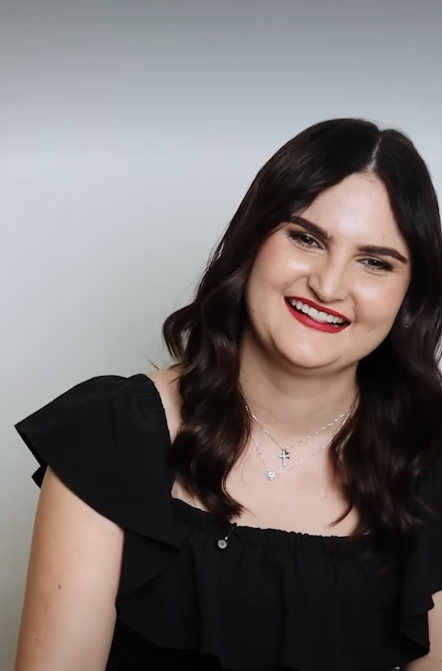
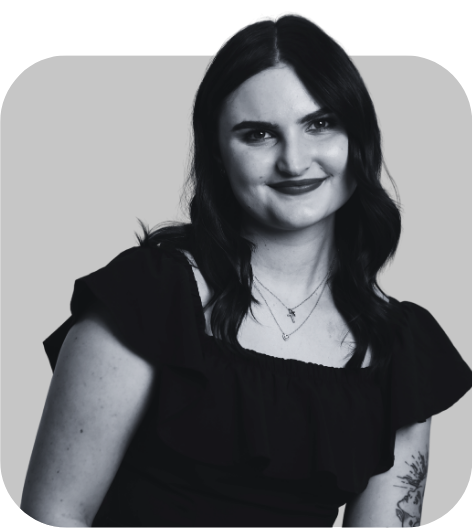
Kate, 19 Sep 2026: replaced the plain colour crops on the five existing Former Team cards (Samantha, Sophie, Toni, Zandri, Danika) with the uniform black-and-white headshots from the new "RESIGNED" board in the FINAL STYLIST CARD Canva file (pages 40-41), cropped one-per-file from that board's expor

diff --git a/staff-profiles.js b/staff-profiles.js
@@ -162,20 +162,28 @@ const STAFF_PROFILES = {
 
   // -- Former team, kept for the record (Kate, 17 Sep 2026) --
   // `resigned: true` renders the card in black-and-white/faded (dashboard.js
-  // renderStylistCards()) instead of leaving them off the grid entirely. None of
-  // them has a cutout in assets/staff/, so `photoFull` points straight at the plain
-  // photo already sitting in stylist/photos/ for the standalone Stylist page — a
-  // flat crop, not the accent-block cutout style the current cards use, but B&W
-  // narrows that gap. Stuart and Goncalo have no photo anywhere, so they render on
-  // name alone, same as anyone else in this file without a `photo`. `role` is a
+  // renderStylistCards()) instead of leaving them off the grid entirely. Photos
+  // below were the plain colour crops from the standalone Stylist page until 19
+  // Sep 2026, when Kate built a proper "RESIGNED" board in the FINAL STYLIST CARD
+  // Canva file (pages 40-41) with a uniform black-and-white headshot per person —
+  // these paths are that board's exports, cropped one-per-file. `role` is a
   // neutral placeholder, not their real title — Kate to correct if it matters.
   'SAMANTHA': { photoFull: 'stylist/photos/KCA/samantha amad.png', role: 'Former Team Member', branch: 'KCA', ig: 'samanthaahmadhair', resigned: true },
-  'SOPHIE':   { photoFull: 'stylist/photos/KCA/sophie harrison.jpg', role: 'Former Team Member', branch: 'KCA', ig: 'sophiepatriciahair', resigned: true },
+  'SOPHIE':   { photoFull: 'stylist/photos/KCA/sophie harrison.png', role: 'Former Team Member', branch: 'KCA', ig: 'sophiepatriciahair', resigned: true },
   'TONI':     { photoFull: 'stylist/photos/KCA/toni brits.png', role: 'Former Team Member', branch: 'KCA', resigned: true },
-  'ZANDRI':   { photoFull: 'stylist/photos/MC/zandri wilson.jpg', role: 'Former Team Member', branch: 'MC', ig: 'hairby.zandri', resigned: true },
-  'DANIKA':   { photoFull: 'stylist/photos/SAA/danika ogrady.jfif', role: 'Former Team Member', branch: 'SAA', ig: 'hairby_danika', resigned: true },
-  'STUART':   { role: 'Former Team Member', branch: 'other', resigned: true },
-  'GONCALO':  { role: 'Former Team Member', branch: 'other', resigned: true },
+  'ZANDRI':   { photoFull: 'stylist/photos/MC/zandri wilson.png', role: 'Former Team Member', branch: 'MC', ig: 'hairby.zandri', resigned: true },
+  'DANIKA':   { photoFull: 'stylist/photos/SAA/danika ogrady.png', role: 'Former Team Member', branch: 'SAA', ig: 'hairby_danika', resigned: true },
+  // Added 19 Sep 2026 from the same RESIGNED board, branch read off their ledger
+  // history (staff_utilisation/branch_staff_daily volume) since none of the four
+  // had a card before now: Zandra almost entirely at KCA, Beatriz/Zara/Blossom
+  // almost entirely at SAA (each also has a single-digit-row cover shift at
+  // another branch, which is not their branch).
+  'ZANDRA':   { photoFull: 'stylist/photos/KCA/zandra competente.png', role: 'Former Team Member', branch: 'KCA', resigned: true },
+  'BEATRIZ':  { photoFull: 'stylist/photos/SAA/beatriz chaparro.png', role: 'Former Team Member', branch: 'SAA', resigned: true },
+  'ZARA':     { photoFull: 'stylist/photos/SAA/zara lhouvum.png', role: 'Former Team Member', branch: 'SAA', resigned: true },
+  'BLOSSOM':  { photoFull: 'stylist/photos/SAA/blossom day.png', role: 'Former Team Member', branch: 'SAA', resigned: true },
+  'STUART':   { photoFull: 'stylist/photos/other/stuart hastings.png', role: 'Former Team Member', branch: 'other', resigned: true },
+  'GONCALO':  { photoFull: 'stylist/photos/other/goncalo de almeida.png', role: 'Former Team Member', branch: 'other', resigned: true },
 };
 
 // ── SURNAMES ──────────────────────────────────────────────────
@@ -207,7 +215,9 @@ const STAFF_SURNAMES = {
   'AREANNE':   'Miranda',
   'ARNALYN':   'Salisi',
   'ASHLEIGH':  'Fairgrieve',
+  'BEATRIZ':   'Chaparro',
   'BETHANY':   'Smith',
+  'BLOSSOM':   'Day',
   'CHALANI':   'Kaushallya',
   'CLARISSA':  'Destacamento',
   'CHONA':     'Manlapaz',
@@ -272,6 +282,7 @@ const STAFF_SURNAMES = {
   'TONI':      'Brits',
   'XYRHY':     'Unisa',
   'ZANDRI':    'Wilson',
+  'ZARA':      'Lhouvum',
 
   // Kate, 16 Sep 2026 — "lagyan mo na lahat ng apelyido across all sections", filled
   // in off the Staff Performance / Utilisation uploads (Phorest spelling, same rule as

diff --git a/index.html b/index.html
@@ -2555,7 +2555,7 @@ table.tp-cmp td.bad{color:var(--bad)}
 <script src="ledger-targets.js?v=20260904a"></script>
 <!-- After ledger-targets.js: the Supabase target layer overrides its lookups per month. -->
 <script src="ledger-targets-db.js?v=20260904a"></script>
-<script src="staff-profiles.js?v=20260919a"></script>
+<script src="staff-profiles.js?v=20260919b"></script>
 <script src="stylist-cards.js?v=20260903a"></script>
 <script src="dashboard.js?v=20260919a"></script>
 <!-- After dashboard.js: reuses its aggregators, formatters and section chrome. -->

diff --git a/upload/upload.html b/upload/upload.html
@@ -13,7 +13,7 @@
 <script src="name-aliases.js?v=4"></script>
 <!-- staff-profiles.js wants canonicalStaffName() from name-aliases.js above it,
      same load order the dashboard itself uses (its own comment says so). -->
-<script src="../staff-profiles.js?v=1"></script>
+<script src="../staff-profiles.js?v=2"></script>
 <script src="phorest-staff.js?v=17"></script>
 <script src="phorest-pdf.js?v=2"></script>
 <script src="utilisation-pdf.js?v=10"></script>
